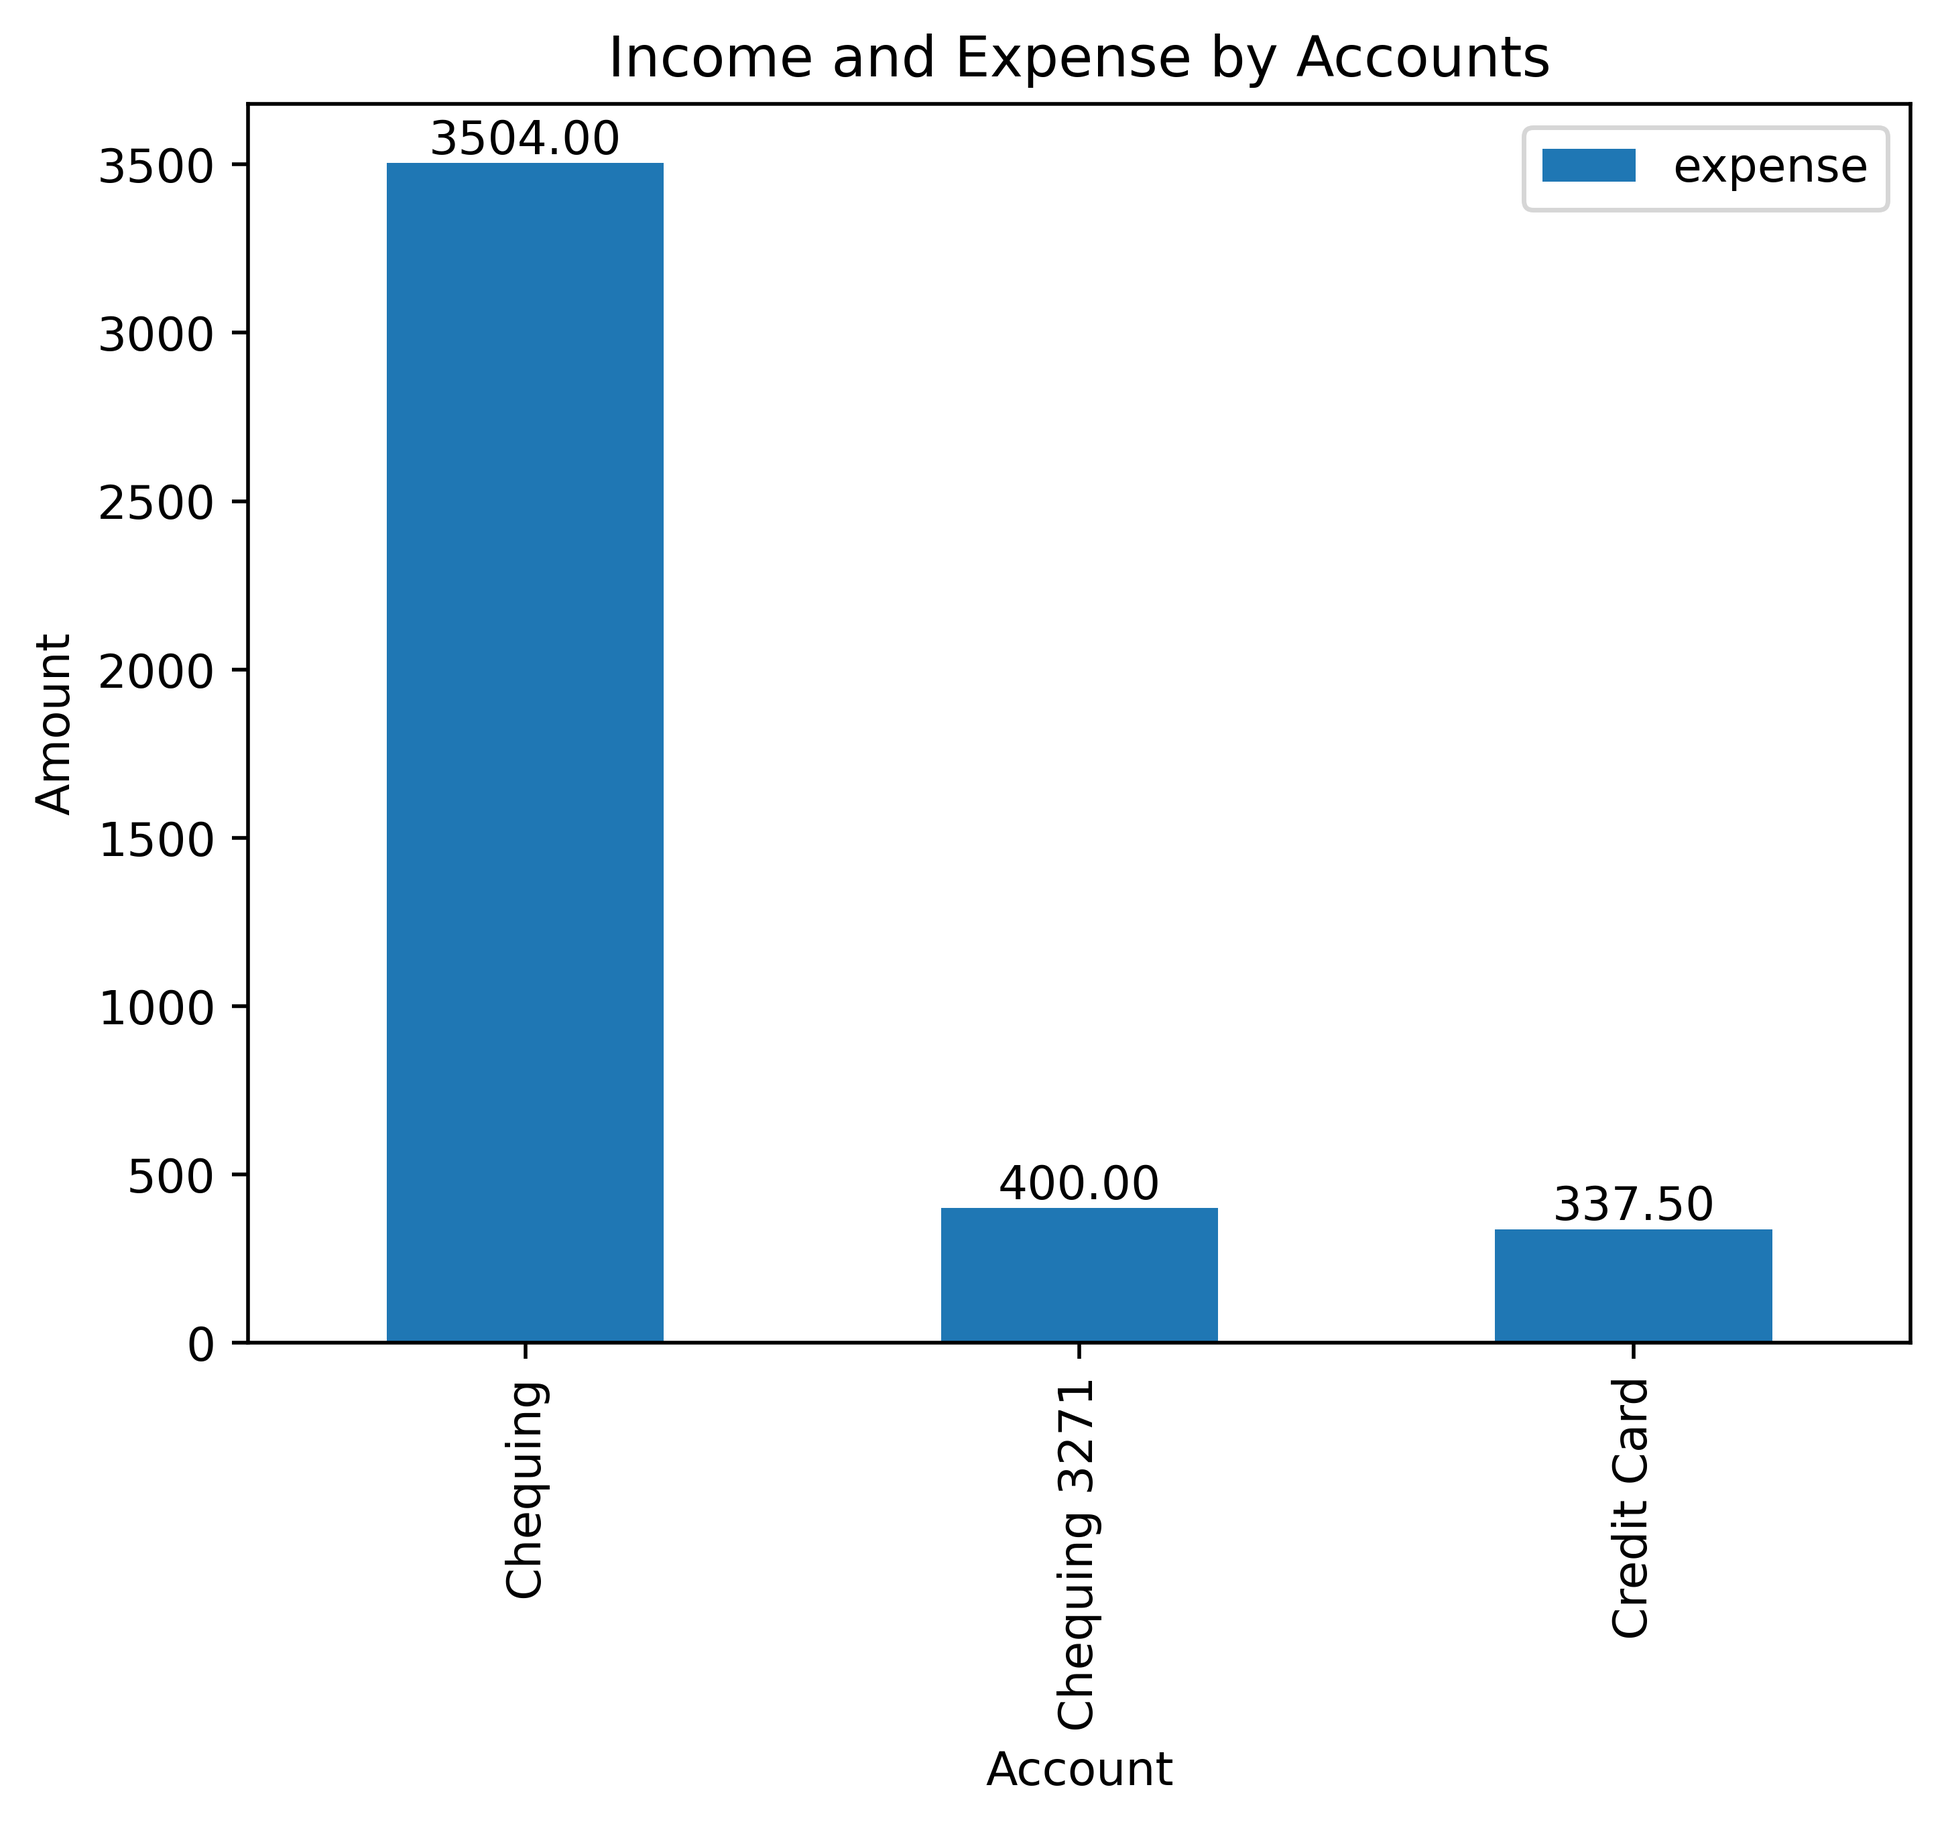
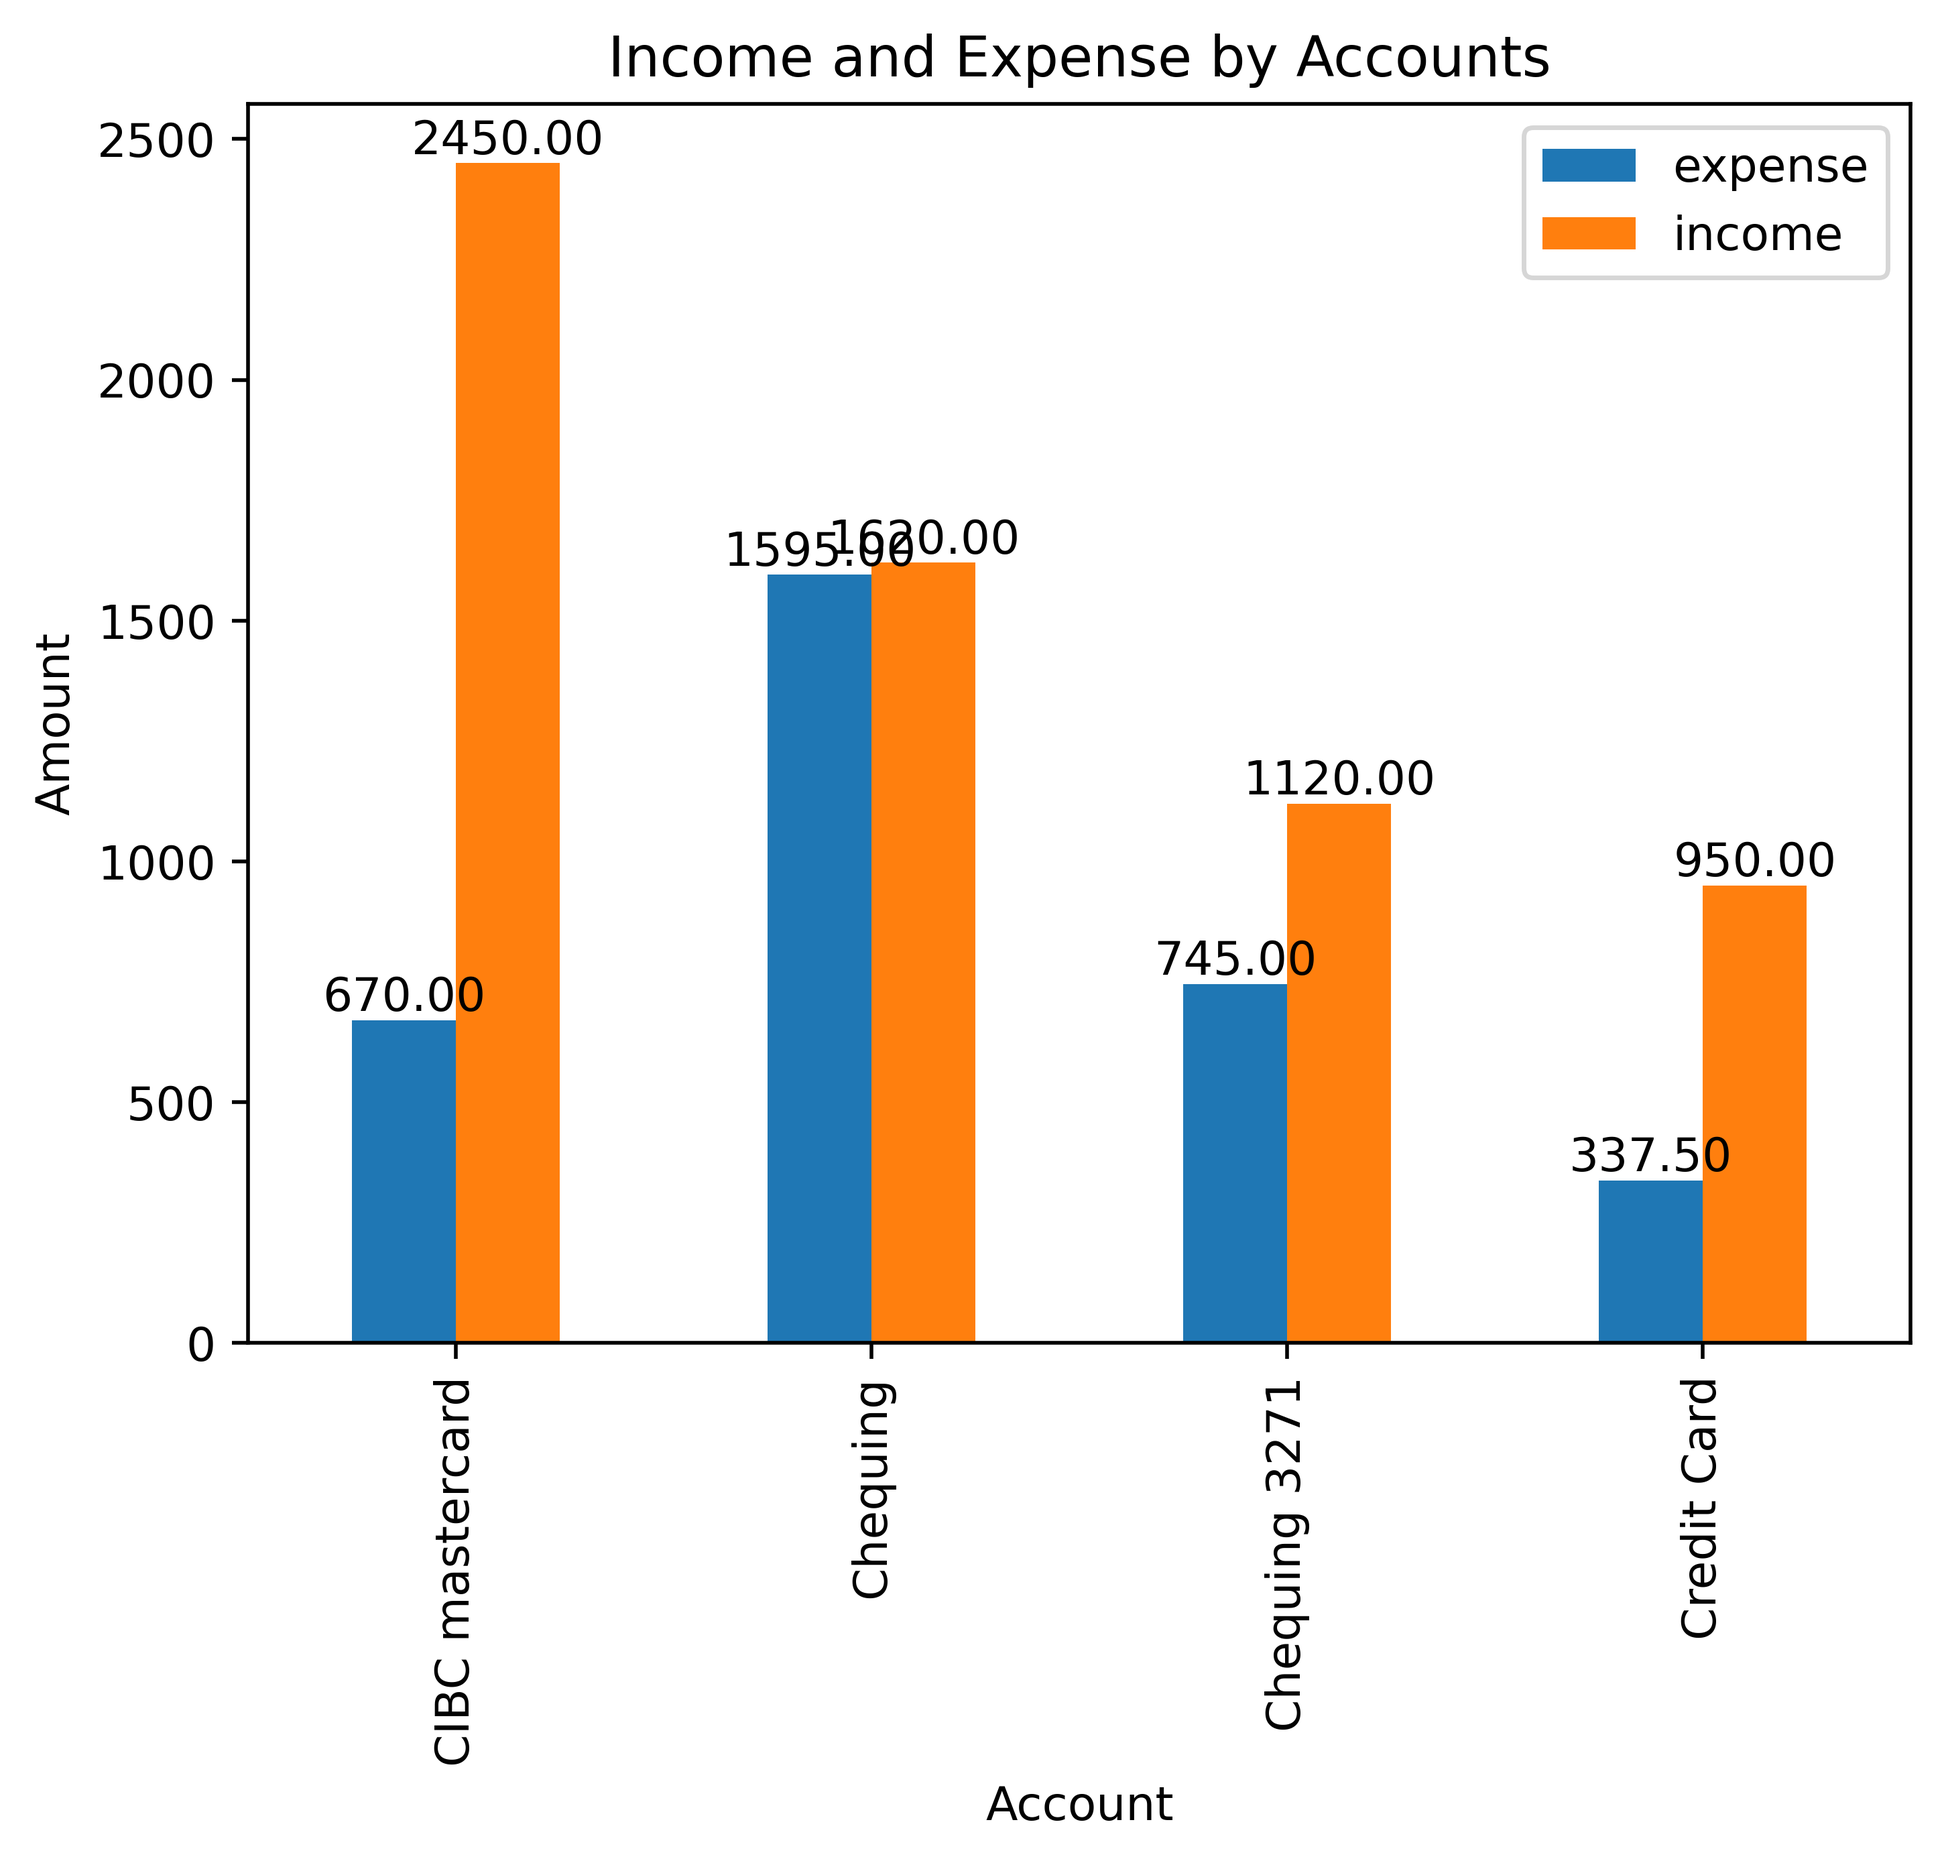
Commit

diff --git a/app.py b/app.py
@@ -28,7 +28,13 @@ settingsCollection = mongo.db.settings
 
 
 def accounts_list(username):
-    accountsList = list(accountsCollection.find({"$or": [{"user": username}, {"default": True}]}))
+    accountsList = list(accountsCollection.find({
+        "$and": [
+            {"$or": [{"user": username}, {"default": True}]},
+            {"is_active": True}
+        ]
+    }))
+
     values_list = [d['name'] for d in accountsList if 'name' in d]
 
     return values_list
@@ -285,15 +291,16 @@ def data_visualization(username):
 
     transactions_df['date'] = pd.to_datetime(transactions_df['date'])  # Convert 'date' column to datetime
     transactions_df['month-year'] = transactions_df['date'].dt.to_period('M').astype(str)  # Convert to string
+    # Group by 'month-year' and 'transaction_type', and sum the amounts
+    grouped = transactions_df.groupby(['month-year', 'transaction_type'])['amount'].sum().reset_index()
 
-    # Plot 1: Income and Expense over Months (Line Graph)
+    # Pivot the data to get 'income' and 'expense' columns
+    pivot_df = grouped.pivot(index='month-year', columns='transaction_type', values='amount')
 
-    plt.plot(transactions_df[transactions_df['transaction_type'] == 'income']['month-year'],
-             transactions_df[transactions_df['transaction_type'] == 'income']['amount'],
-             label='Income', marker='o')
-    plt.plot(transactions_df[transactions_df['transaction_type'] == 'expense']['month-year'],
-             transactions_df[transactions_df['transaction_type'] == 'expense']['amount'],
-             label='Expense', marker='o')
+    # Plotting
+    plt.plot(pivot_df.index, pivot_df['income'], label='Income', marker='o')
+    plt.plot(pivot_df.index, pivot_df['expense'], label='Expense', marker='o')
+
     plt.xlabel('Year-Month')
     plt.ylabel('Amount')
     plt.title('Income and Expense over Months')
@@ -318,7 +325,7 @@ def data_visualization(username):
     # Plot 4: Income and Expense by Accounts
 
     account_data = transactions_df.groupby(['account', 'transaction_type'])['amount'].sum().unstack()
-    ax = account_data.plot(kind='bar', stacked=True)
+    ax = account_data.plot(kind='bar')
 
     plt.title('Income and Expense by Accounts')
     plt.xlabel('Account')
